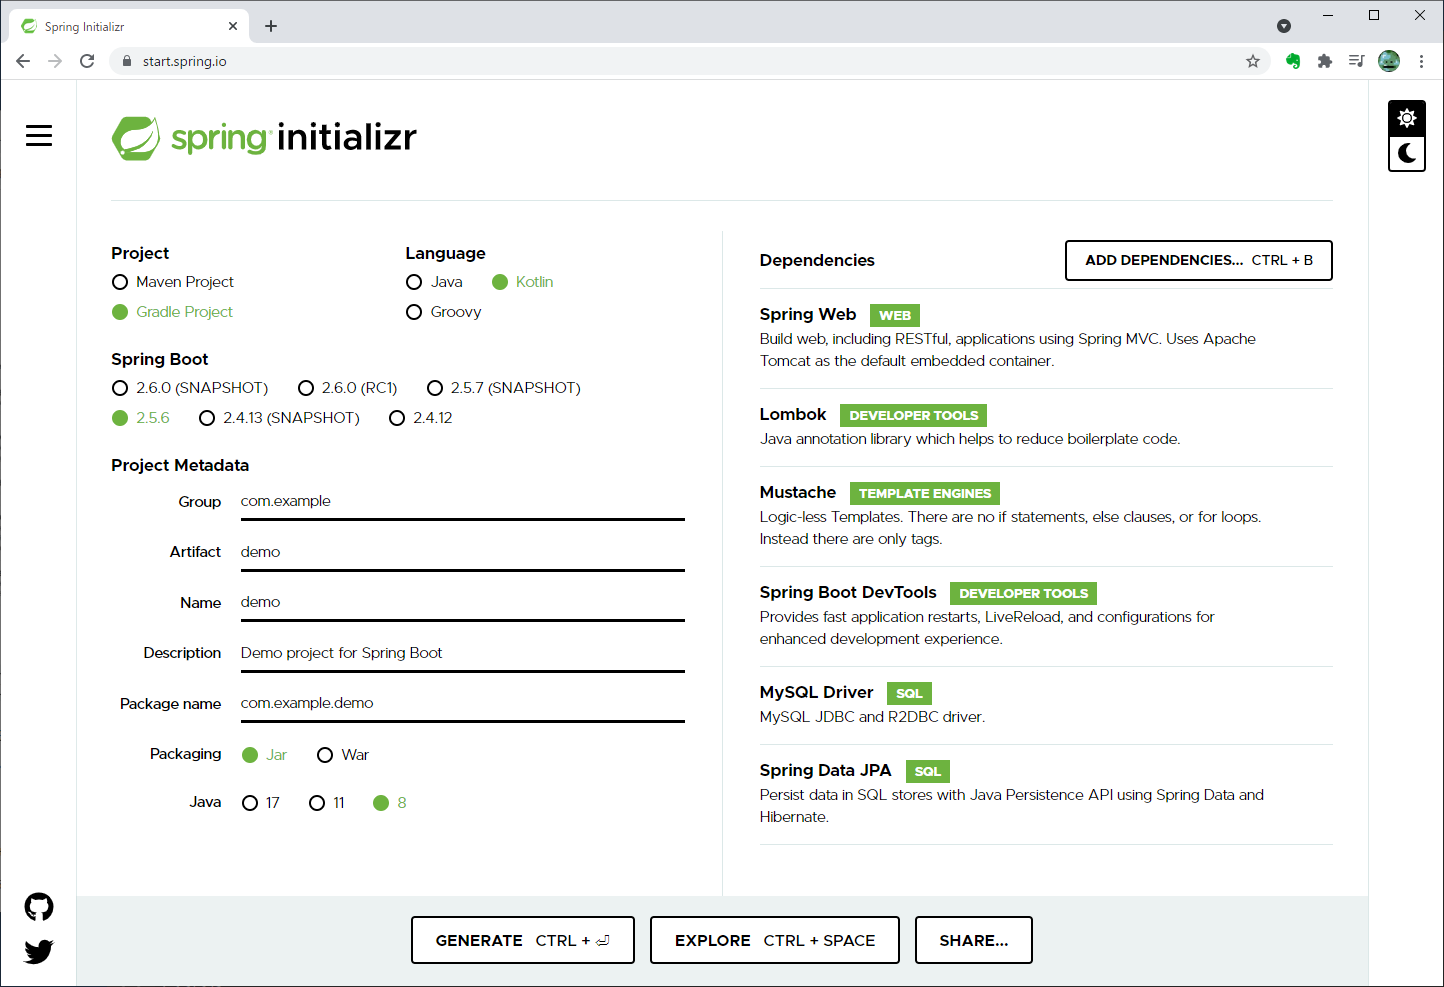
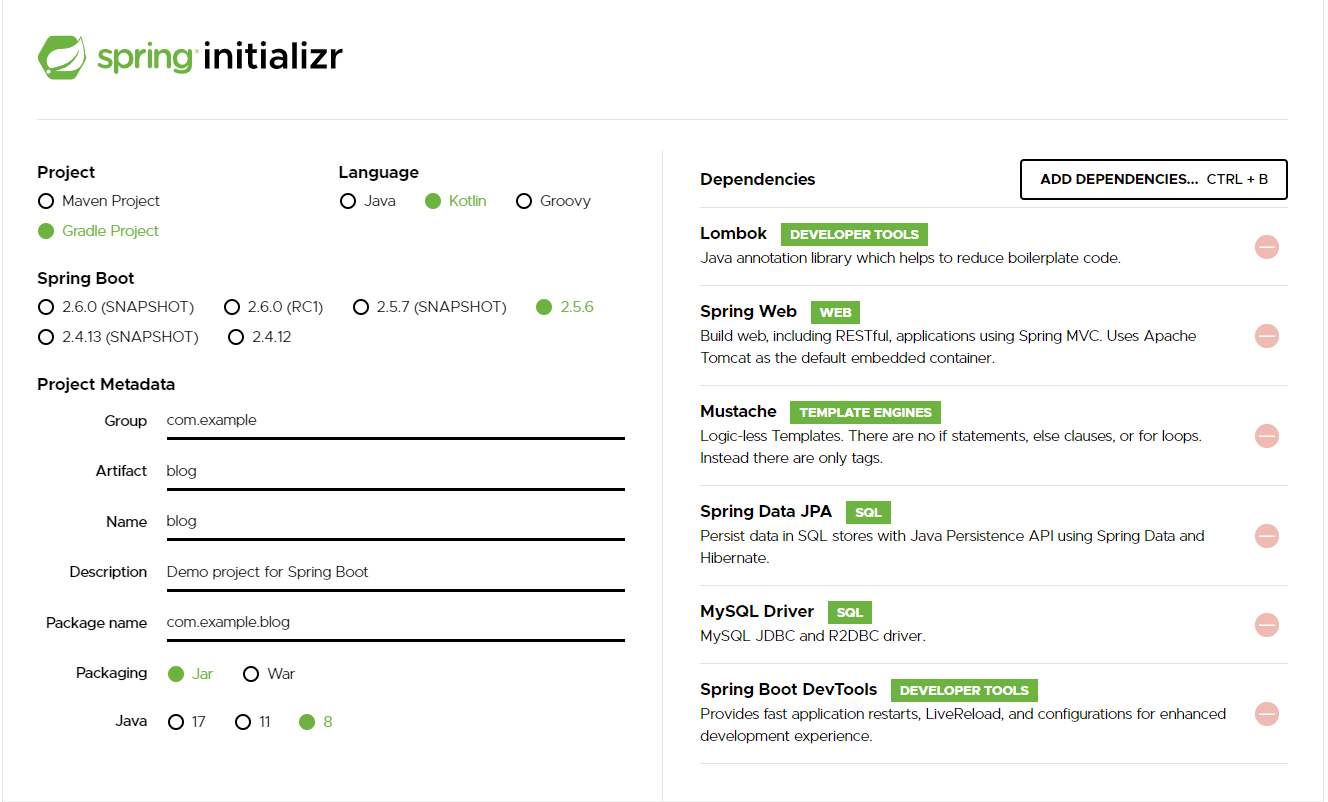
再作り直し

diff --git a/server/src/main/kotlin/com/example/blog/BlogApplication.kt b/server/src/main/kotlin/com/example/blog/BlogApplication.kt
@@ -1,11 +1,13 @@
-package com.example.demo
+package com.example.blog
 
 import org.springframework.boot.autoconfigure.SpringBootApplication
 import org.springframework.boot.runApplication
 
 @SpringBootApplication
-class DemoApplication
+class BlogApplication
 
 fun main(args: Array<String>) {
-	runApplication<DemoApplication>(*args)
+  runApplication<BlogApplication>(*args) {
+    setBannerMode(Banner.Mode.OFF)
+  }
 }

diff --git a/server/src/main/kotlin/com/example/blog/HtmlController.kt b/server/src/main/kotlin/com/example/blog/HtmlController.kt
@@ -1,0 +1,17 @@
+package com.example.blog
+
+import org.springframework.stereotype.Controller
+import org.springframework.ui.Model
+import org.springframework.ui.set
+import org.springframework.web.bind.annotation.GetMapping
+
+@Controller
+class HtmlController {
+
+  @GetMapping("/")
+  fun blog(model: Model): String {
+    model["title"] = "Blog"
+    return "blog"
+  }
+
+}

diff --git a/server/src/test/kotlin/com/example/blog/BlogApplicationTests.kt b/server/src/test/kotlin/com/example/blog/BlogApplicationTests.kt
@@ -1,10 +1,10 @@
-package com.example.demo
+package com.example.blog
 
 import org.junit.jupiter.api.Test
 import org.springframework.boot.test.context.SpringBootTest
 
 @SpringBootTest
-class DemoApplicationTests {
+class BlogApplicationTests {
 
 	@Test
 	fun contextLoads() {
